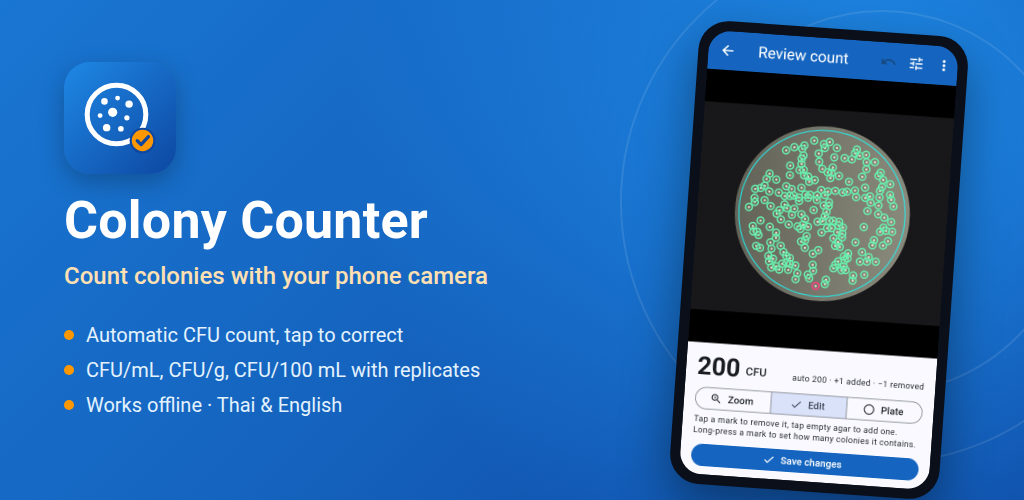
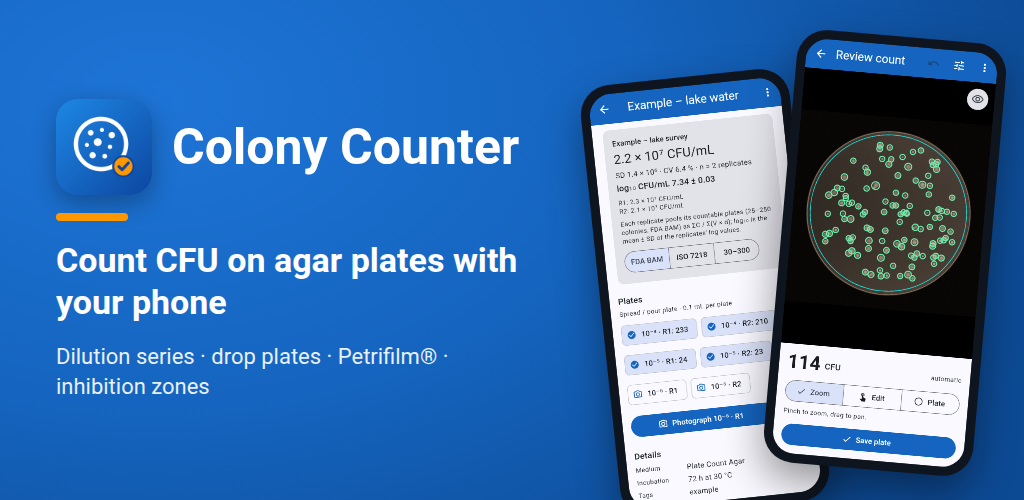
Store listing for production: texts, captioned screenshots, feature graphics (en, th)
Screenshots and feature graphics are made from real app screens by
store/design/make_graphics.js; the promo video now uses the current app.

Claude-Session: https://claude.ai/code/session_013WNfbaSmQnQdX1yWFUj4EG

diff --git a/store/video/promo.html b/store/video/promo.html
@@ -6,11 +6,11 @@ html,body{margin:0;background:#0D47A1}
  background:radial-gradient(circle at 80% 15%,#1E88E5 0,transparent 55%),linear-gradient(135deg,#1976D2,#1565C0 45%,#0D47A1)}
 .ring{position:absolute;border-radius:50%;border:3px solid rgba(255,255,255,.08)}
 .abs{position:absolute}
-#phone{left:390px;top:106px;width:500px;height:867px;border-radius:58px;background:#0a0f1a;box-shadow:0 30px 80px rgba(0,0,0,.45)}
-#screen{position:absolute;left:14px;top:14px;width:472px;height:839px;border-radius:46px;overflow:hidden;background:#000}
-#screen img.shot{position:absolute;top:0;width:472px;height:839px}
-#strip{position:absolute;top:0;left:0;height:839px}
-.pane{position:absolute;top:0;width:472px;height:839px;background:#fff;overflow:hidden}
+#phone{left:420px;top:80px;width:440px;height:921px;border-radius:54px;background:#0a0f1a;box-shadow:0 30px 80px rgba(0,0,0,.45)}
+#screen{position:absolute;left:14px;top:14px;width:412px;height:893px;border-radius:42px;overflow:hidden;background:#000}
+#screen img.shot{position:absolute;top:0;width:412px;height:893px}
+#strip{position:absolute;top:0;left:0;height:893px}
+.pane{position:absolute;top:0;width:412px;height:893px;background:#fff;overflow:hidden}
 #cap{left:1010px;width:800px;top:0;height:1080px}
 .capbox{position:absolute;left:0;width:800px}
 .kick{display:inline-block;background:#FF9800;color:#2B1700;font-weight:700;font-size:26px;padding:6px 18px;border-radius:30px;margin-bottom:26px}
@@ -43,7 +43,8 @@ html,body{margin:0;background:#0D47A1}
 </div>
 <script>
 const LANG = new URLSearchParams(location.search).get('lang') || 'en';
-const DIR = LANG === 'th' ? 'th-TH' : 'en-US';
+// Real app screens (360 × 780 at 2×), made by app/test/manual.
+const DIR = 'screens/' + (LANG === 'th' ? 'th' : 'en');
 const TXT = {
  en: {
   tag: 'Count colonies with your phone camera',
@@ -51,13 +52,13 @@ const TXT = {
   out: ['Free', 'No ads', 'Works offline', 'Thai & English'],
   scenes: [
    ['Snap a plate', 'Colonies are found and counted automatically, in seconds.'],
-   ['Check and correct', 'Tap to add or remove a colony. You stay in control of every count.'],
-   ['Every plate in order', 'Saved with its sample, dilution and replicate.'],
+   ['Check and correct', 'Switch to Edit, then tap to add or remove a colony. You stay in control.'],
    ['CFU/mL, CFU/g, CFU/100 mL', 'Mean ± SD and log₁₀ from replicates, following FDA BAM or ISO 7218.'],
-   ['Compare over time', 'Time-kill and growth curves, ready to share.'],
-   ['Time-lapse', 'Follow colonies as they appear and grow.'],
+   ['Compare over time', 'Log reduction and time-kill or growth curves, ready to share.'],
    ['Several plates, one photo', 'Each plate is found for you, then counted one by one.'],
-   ['Know your accuracy', 'Compare automatic counts with the counts you checked.'],
+   ['Drop plates', 'Every drop is found, with a drop table and a 95 % interval.'],
+   ['Inhibition zones (beta)', 'Zone diameters in mm, checked against your own calliper.'],
+   ['Try it right away', 'Built-in example data and a picture manual for every feature.'],
   ]},
  th: {
   tag: 'นับโคโลนีแบคทีเรียด้วยกล้องโทรศัพท์',
@@ -65,16 +66,16 @@ const TXT = {
   out: ['ฟรี', 'ไม่มีโฆษณา', 'ใช้งานออฟไลน์', 'ภาษาไทยและอังกฤษ'],
   scenes: [
    ['ถ่ายภาพเพลต', 'แอปหาและนับโคโลนีให้อัตโนมัติ ภายในไม่กี่วินาที'],
-   ['ตรวจและแก้ไขได้', 'แตะเพื่อเพิ่มหรือลบโคโลนี ทุกผลนับอยู่ในการควบคุมของคุณ'],
-   ['ทุกเพลตเป็นระเบียบ', 'บันทึกพร้อมตัวอย่าง ระดับการเจือจาง และซ้ำที่'],
+   ['ตรวจและแก้ไขได้', 'เลือก แก้ไข แล้วแตะเพื่อเพิ่มหรือลบโคโลนี ทุกผลนับอยู่ในการควบคุมของคุณ'],
    ['CFU/mL, CFU/g, CFU/100 mL', 'ค่าเฉลี่ย ± SD และ log₁₀ จากค่าซ้ำ ตาม FDA BAM หรือ ISO 7218'],
-   ['เปรียบเทียบตามเวลา', 'กราฟ time-kill และกราฟการเจริญ พร้อมแชร์'],
-   ['ไทม์แลปส์', 'ติดตามโคโลนีที่เกิดขึ้นใหม่และขยายขนาดตามเวลา'],
+   ['เปรียบเทียบตามเวลา', 'log reduction และกราฟ time-kill หรือกราฟการเจริญ พร้อมแชร์'],
    ['หลายเพลตในภาพเดียว', 'แอปหาแต่ละเพลตให้ แล้วนับทีละเพลต'],
-   ['รู้ความแม่นยำ', 'เทียบผลนับอัตโนมัติกับผลที่คุณตรวจแล้ว'],
+   ['ดรอปเพลต', 'หาทุกหยดให้ พร้อมตารางหยดและช่วงความเชื่อมั่น 95 %'],
+   ['โซนยับยั้ง (เบต้า)', 'วัดเส้นผ่านศูนย์กลางโซนเป็นมม. เทียบกับเวอร์เนียร์ของคุณ'],
+   ['ลองใช้ได้ทันที', 'มีข้อมูลสาธิตในตัว และคู่มือภาพครบทุกฟีเจอร์'],
   ]},
 }[LANG];
-const SHOTS = ['1-review', '2-plates', '4-sample-detail', '5-compare', '6-timelapse', '8-multi-plate', '7-accuracy'];
+const SHOTS = ['count-8-edit', 'examples-3-result', 'examples-4-compare', 'multi-3-found', 'drops-22-table', 'zones-10-review', 'examples-1-plates'];
 
 // Timeline (seconds)
 const T_INTRO = 3.4, T_HERO = 7.0, T_SHOT = 3.9, T_SLIDE = 0.55, T_OUTRO = 5.0;
@@ -88,16 +89,14 @@ const easeOut = x => 1 - Math.pow(1 - clamp(x), 3);
 const $ = id => document.getElementById(id);
 
 // Panes: hero (canvas) + one pane per screenshot, laid out side by side.
-const W = 472, H = 839;
+const W = 412, H = 893;
 const strip = $('strip');
 const hero = document.createElement('div'); hero.className = 'pane'; hero.id = 'hero';
-hero.innerHTML = '<canvas width="944" height="1678" style="width:472px;height:839px"></canvas><div id="status"></div><div id="count"><b>0</b><span></span></div>';
+hero.innerHTML = '<canvas width="824" height="1786" style="width:412px;height:893px"></canvas><div id="status"></div><div id="count"><b>0</b><span></span></div>';
 strip.appendChild(hero);
 SHOTS.forEach((s, i) => {
  const p = document.createElement('div'); p.className = 'pane'; p.style.left = (i + 1) * W + 'px';
- // Screenshots are 1080x1920; the screen is a little taller, so pin to the top
- // and fill below with the app's bottom colour.
- p.innerHTML = `<img class="shot" src="${DIR}/${s}.png" style="height:${W * 1920 / 1080}px">`;
+ p.innerHTML = `<img class="shot" src="${DIR}/${s}.jpg">`;
  strip.appendChild(p);
 });
 $('itag').textContent = TXT.tag; $('otag').textContent = TXT.tag;
@@ -120,7 +119,7 @@ function drawHero(p) { // p = progress 0..1 of the counting animation
  const sc = 2; ctx.setTransform(sc, 0, 0, sc, 0, 0);
  ctx.fillStyle = '#000'; ctx.fillRect(0, 0, W, H);
  // Fit the plate (circle) to the screen width with a margin.
- const R = 210, cx = W / 2, cy = H / 2 - 20;
+ const R = 190, cx = W / 2, cy = H / 2 - 20;
  const k = R / col.r;
  ctx.save(); ctx.beginPath(); ctx.arc(cx, cy, R + 26, 0, Math.PI * 2); ctx.clip();
  ctx.drawImage(img, cx - col.cx * k, cy - col.cy * k, img.width * k, img.height * k);

diff --git a/store/design/make_graphics.js b/store/design/make_graphics.js
@@ -1,0 +1,76 @@
+// Makes the Play Store phone screenshots (1080 × 1920) and feature graphics
+// (1024 × 500) in English and Thai from real app screens.
+//   node make_graphics.js <raw screens folder>
+// The raw screens are the manual's unannotated PNGs (<name>.<lang>.png, made by
+// app/test/manual: MANUAL_OUT=<folder> flutter test test/manual/<chapter>_manual.dart).
+const { chromium } = require('playwright');
+const path = require('path'), fs = require('fs');
+
+const raw = path.resolve(process.argv[2]);
+const store = path.resolve(__dirname, '..');
+// Order = order in the listing. h: headline, s: subline, n: footnote.
+const SHOTS = [
+  ['count-2-result', {
+    en: { h: 'Count colonies from a photo', s: 'Automatic count, then check it on the photo' },
+    th: { h: 'นับโคโลนีจากภาพถ่าย', s: 'นับอัตโนมัติ แล้วตรวจผลบนภาพได้ทันที' } }],
+  ['examples-3-result', {
+    en: { h: 'CFU/mL from a dilution series', s: 'Replicates, mean ± SD and log₁₀ CFU/mL' },
+    th: { h: 'CFU/mL จากชุดการเจือจาง', s: 'ค่าซ้ำ ค่าเฉลี่ย ± SD และ log₁₀ CFU/mL' } }],
+  ['examples-4-compare', {
+    en: { h: 'Compare conditions', s: 'Log reduction, % kill and time-kill curves' },
+    th: { h: 'เปรียบเทียบสภาวะการทดลอง', s: 'log reduction อัตราการฆ่า และกราฟ time-kill' } }],
+  ['multi-3-found', {
+    en: { h: 'Several plates in one photo', s: 'Each plate is found, counted and saved' },
+    th: { h: 'หลายเพลตในภาพเดียว', s: 'หา นับ และบันทึกทีละเพลต' } }],
+  ['drops-22-table', {
+    en: { h: 'Drop plates (Miles–Misra)', s: 'Every drop found, with a drop table and 95 % interval' },
+    th: { h: 'ดรอปเพลต (Miles–Misra)', s: 'หาทุกหยด พร้อมตารางหยดและช่วงความเชื่อมั่น 95 %' } }],
+  ['petrifilm-8-gas', {
+    en: { h: 'Petrifilm® dry films', s: 'E. coli, coliforms, gas bubbles and more',
+          n: 'Petrifilm is a trademark of Neogen Corporation. Not made or endorsed by Neogen.' },
+    th: { h: 'แผ่นฟิล์มแห้ง Petrifilm®', s: 'อี. โคไล โคลิฟอร์ม ฟองแก๊ส และอื่น ๆ',
+          n: 'Petrifilm เป็นเครื่องหมายการค้าของ Neogen Corporation แอปนี้ไม่ได้จัดทำหรือรับรองโดย Neogen' } }],
+  ['zones-10-review', {
+    en: { h: 'Inhibition zones (beta)', s: 'Zone diameters in mm, checked against your calliper' },
+    th: { h: 'โซนยับยั้ง (เบต้า)', s: 'วัดเส้นผ่านศูนย์กลางโซนเป็นมิลลิเมตร เทียบกับเวอร์เนียร์ของคุณ' } }],
+  ['examples-1-plates', {
+    en: { h: 'Try it now with examples', s: 'Built-in example data and a picture manual' },
+    th: { h: 'ลองใช้ได้ทันทีด้วยข้อมูลสาธิต', s: 'มีข้อมูลสาธิตในตัว พร้อมคู่มือภาพทุกฟีเจอร์' } }],
+];
+const FEATURE = {
+  en: { t: 'Count CFU on agar plates with your phone', s: 'Dilution series · drop plates · Petrifilm® · inhibition zones' },
+  th: { t: 'นับโคโลนี (CFU) บนจานเพาะเชื้อด้วยโทรศัพท์', s: 'ชุดการเจือจาง · ดรอปเพลต · Petrifilm® · โซนยับยั้ง' },
+};
+
+(async () => {
+  const b = await chromium.launch({ executablePath: process.env.CHROMIUM || '/opt/pw-browsers/chromium-1194/chrome-linux/chrome' });
+  for (const lang of ['en', 'th']) {
+    const tag = lang === 'en' ? 'en-US' : 'th-TH';
+    const outDir = path.join(store, 'screenshots', tag);
+    fs.mkdirSync(outDir, { recursive: true });
+    for (const f of fs.readdirSync(outDir)) if (f.endsWith('.png')) fs.unlinkSync(path.join(outDir, f));
+    const page = await b.newPage({ viewport: { width: 1080, height: 1920 } });
+    for (const [i, [shot, text]] of SHOTS.entries()) {
+      const img = path.join(raw, `${shot}.${lang}.png`);
+      if (!fs.existsSync(img)) throw new Error(`missing ${img}`);
+      const q = new URLSearchParams({ lang, img: 'file://' + img, ...text[lang] });
+      await page.goto('file://' + path.join(__dirname, 'frame.html') + '?' + q);
+      await page.waitForFunction(() => document.getElementById('img').complete && document.fonts.status === 'loaded');
+      const out = path.join(outDir, `${i + 1}-${shot.split('-')[0]}.png`);
+      await page.screenshot({ path: out });
+      console.log(out);
+    }
+    await page.close();
+    const fp = await b.newPage({ viewport: { width: 1024, height: 500 } });
+    const q = new URLSearchParams({ lang, ...FEATURE[lang],
+      a: 'file://' + path.join(raw, `examples-3-result.${lang}.png`),
+      b: 'file://' + path.join(raw, `count-2-result.${lang}.png`) });
+    await fp.goto('file://' + path.join(__dirname, 'feature.html') + '?' + q);
+    await fp.waitForFunction(() => [...document.images].every(i => i.complete) && document.fonts.status === 'loaded');
+    const out = path.join(store, 'graphics', `feature-graphic-${lang}.png`);
+    await fp.screenshot({ path: out });
+    console.log(out);
+    await fp.close();
+  }
+  await b.close();
+})().catch(e => { console.error('FAILED', e.message); process.exit(1); });

diff --git a/store/design/frame.html b/store/design/frame.html
@@ -1,0 +1,42 @@
+<!doctype html>
+<html><head><meta charset="utf-8">
+<style>
+/* Play Store phone screenshot: 1080 × 1920, a headline over a phone showing
+   a real app screen. Parameters come from the URL (see make_graphics.js). */
+@font-face { font-family: Roboto; src: url(../../app/assets/fonts/Roboto-Regular.ttf); }
+@font-face { font-family: Roboto; font-weight: 500; src: url(../../app/assets/fonts/Roboto-Medium.ttf); }
+@font-face { font-family: Roboto; font-weight: 700; src: url(../../app/assets/fonts/Roboto-Bold.ttf); }
+@font-face { font-family: PlexThai; src: url(../../app/assets/fonts/IBMPlexSansThai-Regular.ttf); }
+@font-face { font-family: PlexThai; font-weight: 500; src: url(../../app/assets/fonts/IBMPlexSansThai-Medium.ttf); }
+@font-face { font-family: PlexThai; font-weight: 700; src: url(../../app/assets/fonts/IBMPlexSansThai-Bold.ttf); }
+@font-face { font-family: Sym; src: url(../../app/assets/fonts/ColonySymbols-Regular.ttf); }
+:root { --blue: #1565c0; --blue-deep: #0d4a94; --orange: #ff9800; --frame: #0f151f; }
+* { margin: 0; box-sizing: border-box; }
+html, body { width: 1080px; height: 1920px; overflow: hidden; }
+body { font-family: Roboto, PlexThai, Sym, sans-serif; color: #fff;
+  background: radial-gradient(120% 70% at 50% 0%, #1e74d6 0%, var(--blue) 45%, var(--blue-deep) 100%); }
+.head { position: absolute; top: 96px; left: 80px; right: 80px; text-align: center; }
+.bar { width: 96px; height: 10px; border-radius: 5px; background: var(--orange); margin: 0 auto 36px; }
+h1 { font-size: 78px; line-height: 1.12; font-weight: 700; letter-spacing: -0.5px; }
+p { margin-top: 22px; font-size: 40px; line-height: 1.3; font-weight: 400; opacity: .9; }
+:lang(th) h1 { font-size: 74px; line-height: 1.25; }
+.phone { position: absolute; left: 50%; bottom: 56px; transform: translateX(-50%);
+  width: 640px; padding: 20px; border-radius: 66px; background: var(--frame);
+  box-shadow: 0 30px 80px rgba(0,0,0,.35), inset 0 0 0 3px #2a3442; }
+.phone img { display: block; width: 100%; border-radius: 48px; }
+.note { position: absolute; left: 0; right: 0; bottom: 18px; text-align: center;
+  font-size: 22px; opacity: .85; text-shadow: 0 1px 4px rgba(0,0,0,.5); }
+</style></head>
+<body>
+<div class="head"><div class="bar"></div><h1 id="h"></h1><p id="s"></p></div>
+<div class="phone"><img id="img" alt=""></div>
+<div class="note" id="n"></div>
+<script>
+const q = new URLSearchParams(location.search);
+document.documentElement.lang = q.get('lang') || 'en';
+document.getElementById('h').textContent = q.get('h');
+document.getElementById('s').textContent = q.get('s') || '';
+document.getElementById('n').textContent = q.get('n') || '';
+document.getElementById('img').src = q.get('img');
+</script>
+</body></html>

diff --git a/store/design/feature.html b/store/design/feature.html
@@ -1,0 +1,50 @@
+<!doctype html>
+<html><head><meta charset="utf-8">
+<style>
+/* Play Store feature graphic: 1024 × 500. Key content stays clear of the
+   edges (Play may crop or overlay a play button in the middle). */
+@font-face { font-family: Roboto; font-weight: 700; src: url(../../app/assets/fonts/Roboto-Bold.ttf); }
+@font-face { font-family: Roboto; src: url(../../app/assets/fonts/Roboto-Regular.ttf); }
+@font-face { font-family: PlexThai; font-weight: 700; src: url(../../app/assets/fonts/IBMPlexSansThai-Bold.ttf); }
+@font-face { font-family: PlexThai; src: url(../../app/assets/fonts/IBMPlexSansThai-Regular.ttf); }
+@font-face { font-family: Sym; src: url(../../app/assets/fonts/ColonySymbols-Regular.ttf); }
+* { margin: 0; box-sizing: border-box; }
+html, body { width: 1024px; height: 500px; overflow: hidden; }
+body { font-family: Roboto, PlexThai, Sym, sans-serif; color: #fff;
+  background: radial-gradient(90% 120% at 15% 20%, #1e74d6 0%, #1565c0 50%, #0d4a94 100%); }
+.left { position: absolute; left: 56px; top: 0; bottom: 0; width: 480px;
+  display: flex; flex-direction: column; justify-content: center; gap: 18px; }
+.brand { display: flex; align-items: center; gap: 20px; }
+.brand img { width: 96px; height: 96px; border-radius: 22px; box-shadow: 0 8px 24px rgba(0,0,0,.3); }
+h1 { font-size: 50px; font-weight: 700; line-height: 1.05; }
+h2 { font-size: 34px; font-weight: 700; line-height: 1.25; }
+:lang(th) h2 { font-size: 30px; line-height: 1.35; }
+p { font-size: 22px; opacity: .9; line-height: 1.35; }
+.bar { width: 72px; height: 8px; border-radius: 4px; background: #ff9800; }
+.phones { position: absolute; right: 24px; top: 36px; width: 400px; height: 600px; }
+.phone { position: absolute; width: 210px; padding: 9px; border-radius: 30px; background: #0f151f;
+  box-shadow: 0 18px 40px rgba(0,0,0,.4); }
+.phone img { display: block; width: 100%; border-radius: 22px; }
+.p1 { left: 0; top: 40px; transform: rotate(-6deg); }
+.p2 { left: 180px; top: 0; transform: rotate(5deg); }
+</style></head>
+<body>
+<div class="left">
+  <div class="brand"><img src="../../app/assets/icon/icon-256.png" alt=""><h1>Colony Counter</h1></div>
+  <div class="bar"></div>
+  <h2 id="t"></h2>
+  <p id="s"></p>
+</div>
+<div class="phones">
+  <div class="phone p1"><img id="a" alt=""></div>
+  <div class="phone p2"><img id="b" alt=""></div>
+</div>
+<script>
+const q = new URLSearchParams(location.search);
+document.documentElement.lang = q.get('lang');
+document.getElementById('t').textContent = q.get('t');
+document.getElementById('s').textContent = q.get('s');
+document.getElementById('a').src = q.get('a');
+document.getElementById('b').src = q.get('b');
+</script>
+</body></html>

diff --git a/store/README.md b/store/README.md
@@ -26,10 +26,17 @@ answer to each form. Work through the checklist from top to bottom.
 | App bundle | CI artifact **colony-counter-aab** → `app-release.aab` | signed with the upload key |
 | Privacy policy | `app/web/privacy.html`, published with the web version | public URL |
 
-Screenshots, in order: review a count · plate list · samples · sample result with
-replicates · comparison (time-kill chart) · time-lapse · counting accuracy · several
-plates in one photo. They come from the web build with demo data and look the same
-as the Android app (same Flutter interface).
+Screenshots, in order (each a real app screen under a headline, English and Thai):
+count a plate · CFU/mL from a dilution series · compare conditions (time-kill chart) ·
+several plates in one photo · drop plates · Petrifilm® dry films (with the Neogen
+trademark note) · inhibition zones (beta) · built-in examples and picture manual.
+
+To make them again after the app changes (and the two feature graphics):
+1. Render the app screens with the manual's chapters, unannotated:
+   `cd app; for c in examples count drops petrifilm zones multi; do MANUAL_OUT=/tmp/raw flutter test test/manual/${c}_manual.dart; done`
+2. `cd store/design; node make_graphics.js /tmp/raw` (Playwright with Chromium).
+   The headlines and the screen for each image are at the top of `make_graphics.js`;
+   the layout is `frame.html` (screenshots) and `feature.html` (feature graphic).
 
 Tablet screenshots are optional; without them the listing is shown as a phone app.
 
@@ -52,8 +59,9 @@ allows 8 phone screenshots per language.
 ## Promo video (optional)
 
 `video/colony-counter-promo-en.mp4` and `video/colony-counter-promo-th.mp4`: 43 s,
-1920 × 1080, no voice or music. The video shows the colony count on a real demo
-photo, then the store screenshots with captions.
+1920 × 1080, no voice or music. The video shows the colony count on a demo photo,
+then seven real app screens with captions: check and correct, CFU/mL, compare, several
+plates, drop plates, inhibition zones, examples and manual.
 
 Play takes a **YouTube link**, not a file:
 1. Upload each video to YouTube (studio.youtube.com → Create → Upload videos).
@@ -65,9 +73,10 @@ Play takes a **YouTube link**, not a file:
 3. Play Console → Main store listing → **Video** → paste the English link.
    In the Thai (th-TH) translation, paste the Thai link.
 
-To rebuild the video after the screenshots change, run `node render.js en video
+To rebuild the video after the app changes, copy the new app screens (step 1 above) to
+`video/screens/<en|th>/<name>.jpg`, then run `node render.js en video
 colony-counter-promo-en.mp4` (and `th`) in `video/`. It needs Playwright with
-Chromium and ffmpeg. The captions are in `video/promo.html`.
+Chromium and ffmpeg. The captions and the list of screens are in `video/promo.html`.
 
 ## Before you start
 

diff --git a/store/listing/en-US.md b/store/listing/en-US.md
@@ -12,15 +12,19 @@ Colony Counter – CFU counting
 Count bacterial colonies (CFU) on agar plates with your phone camera.
 ```
 
-## Full description (3130/4000 characters)
+## Full description (3437/4000 characters)
 
 ```
 Colony Counter counts bacterial and fungal colonies on agar plates from a photo, and turns plate counts into CFU/mL, CFU/g or CFU/100 mL. Built for microbiology research and teaching labs.
 
+START IN A MINUTE
+• Built-in example plates, samples and a time-kill comparison: try every feature before you count your own plates, then remove them with one tap.
+• A step-by-step picture manual for every feature, in Thai and English (menu → User manual).
+
 HOW IT WORKS
 • Photograph a plate. A guide circle and live checks for level, focus and glare help you take a good photo.
 • The app finds the dish and counts the colonies automatically, splitting touching colonies and estimating clusters.
-• Check the count on the photo: tap to remove or add a colony, long-press to set a cluster size. Undo any change.
+• Check the count on the photo: switch to Edit, tap to remove or add a colony, long-press to set a cluster size. Undo any change.
 
 RESULTS YOU CAN USE
 • CFU/mL from a dilution series, with the FDA BAM (25–250), ISO 7218 (10–300) or 30–300 counting rules.
@@ -49,7 +53,7 @@ TRUST THE COUNT
 
 RECORDS AND EXPORT
 • Sample plans, experiment details (strain, medium, batch, incubation, operator, tags) and search.
-• Print QR plate labels and scan them to fill in the sample.
+• Print QR plate labels (A4, 3 × 8 labels of 70 × 37 mm) and scan them to fill in the sample.
 • Export CSV (plates, samples, every colony, zones), annotated photos, full backups, and training data for your own models.
 
 PRIVATE AND OFFLINE
